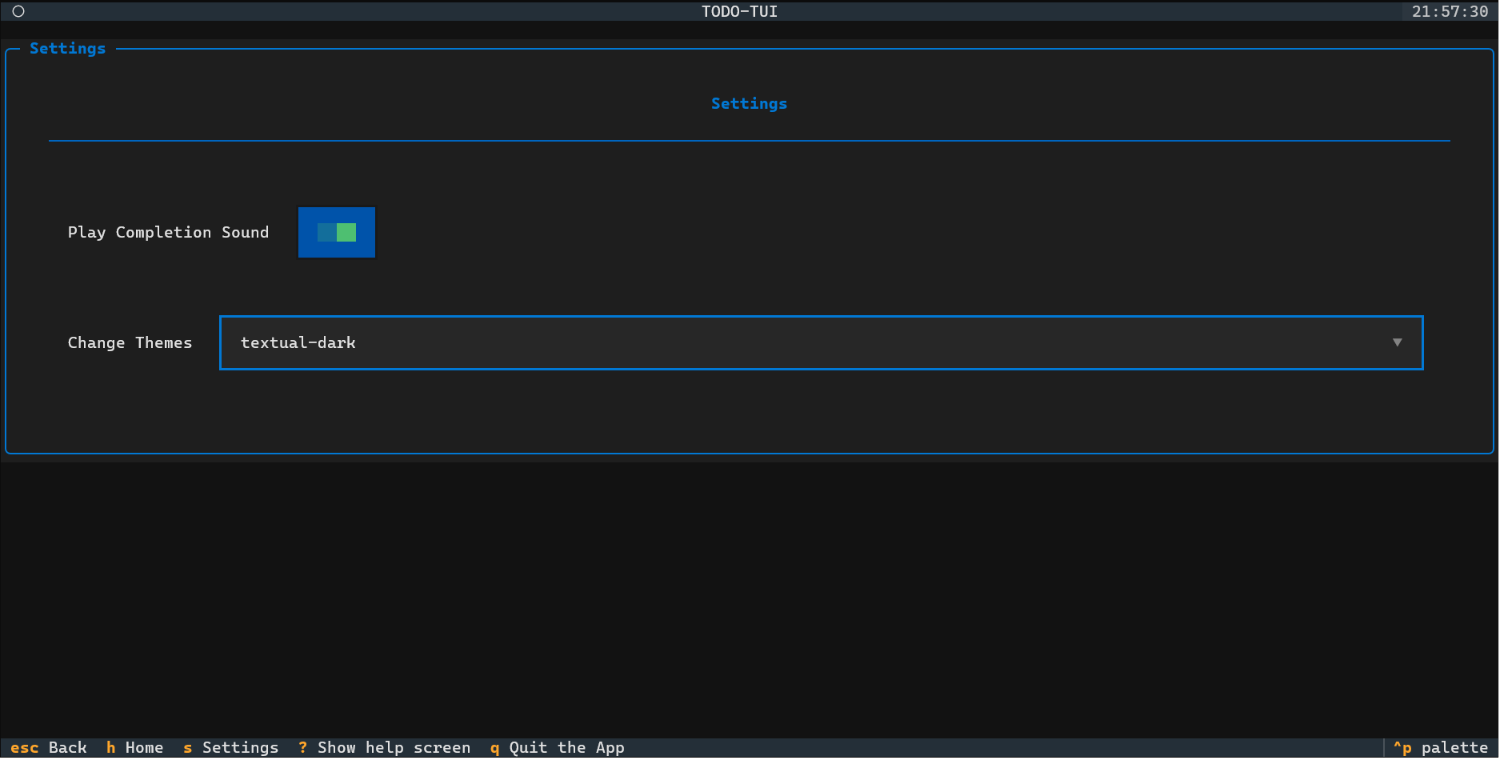
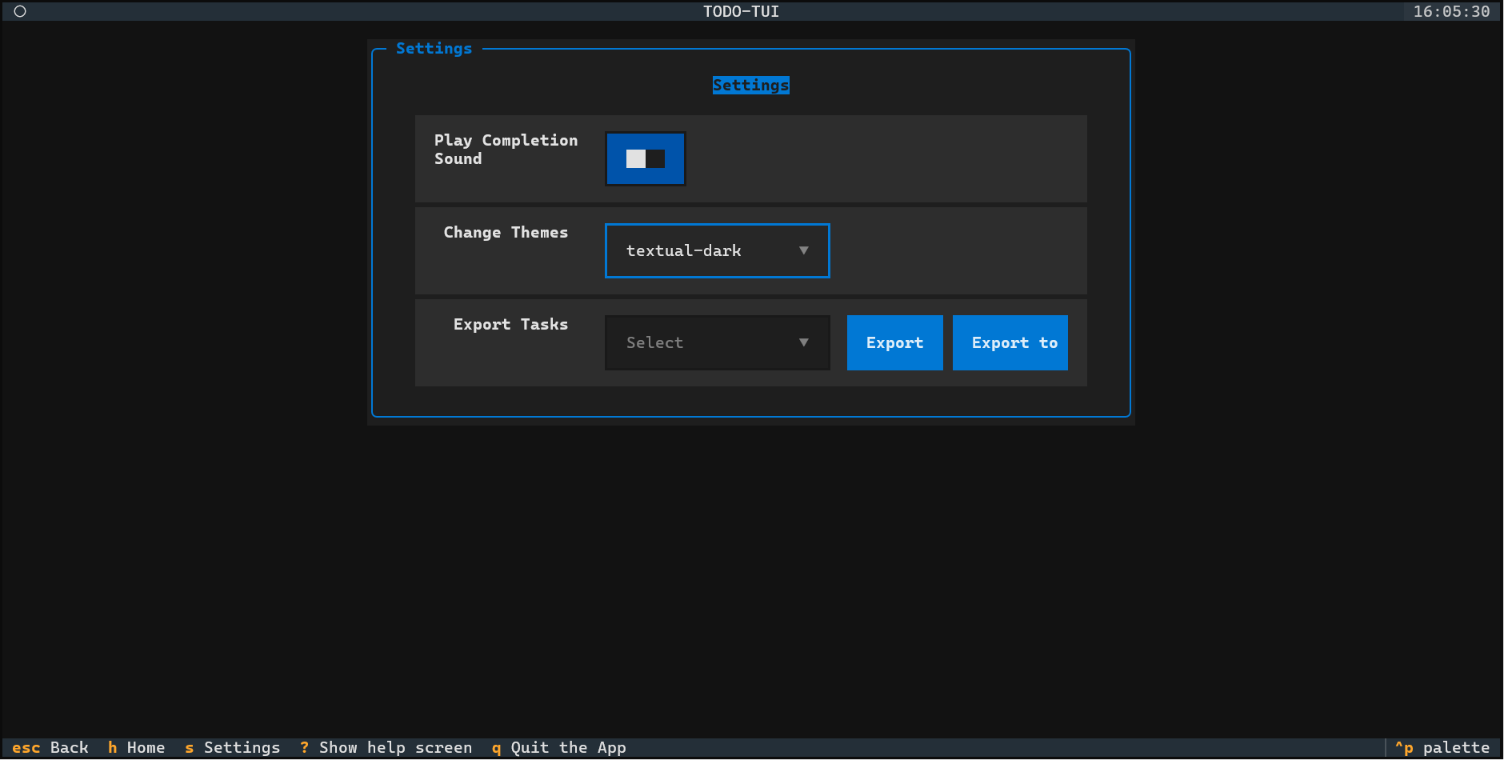
Added Exporting feature + fixed some UI issues in Settings Screen

diff --git a/src/todo_tui/main.py b/src/todo_tui/main.py
@@ -1,6 +1,7 @@
-import sqlite3, winsound
+import sqlite3, winsound,json,csv
 from importlib.resources import files
 from pathlib import Path
+from datetime import datetime
 from typing import cast
 from textual.app import App
 from textual.binding import Binding
@@ -14,9 +15,10 @@ from textual.css.query import NoMatches
 PACKAGE = files("todo_tui")
 PROJECT_ROOT = Path(__file__).resolve().parents[2]
 if (PROJECT_ROOT / ".git").exists():
-    DB_PATH = PROJECT_ROOT / "db" / "todo.db"
+    BASE_DIR = PROJECT_ROOT
 else:
-    DB_PATH = Path.home() / ".todo-tui" / "todo.db"
+    BASE_DIR = Path.home() / ".todo-tui"
+DB_PATH = BASE_DIR / "db" / "todo.db"
 
 #=======================================================Todo-App==============================================================#
 class TodoApp(App):
@@ -89,6 +91,58 @@ class TodoApp(App):
             ("theme", value),
         )
         self.conn.commit()
+
+    def export_tasks(self, format_type: str):
+        tasks = self.conn.execute(
+            "SELECT ID, TASK, DONE, CREATED_AT, COMPLETED_AT FROM TASKS ORDER BY CREATED_AT"
+        ).fetchall()
+
+        if not tasks:
+            return None
+        export_dir = BASE_DIR / "exports"
+        export_dir.mkdir(parents=True, exist_ok=True)
+        timestamp = datetime.now().strftime("%Y%m%d_%H%M%S")
+
+        if format_type == "csv":
+            file_path = export_dir / f"tasks_export_{timestamp}.csv"
+            with open(file_path, "w", newline="", encoding="utf-8") as f:
+                writer = csv.writer(f)
+                writer.writerow(["ID", "Task", "Done", "Created At", "Completed At"])
+                for task in tasks:
+                    writer.writerow([task[0], task[1], "Yes" if task[2] else "No", task[3], task[4] or ""])
+        else:  # json
+            file_path = export_dir / f"tasks_export_{timestamp}.json"
+            task_list = []
+            for task in tasks:
+                task_list.append({
+                    "id": task[0],
+                    "task": task[1],
+                    "done": bool(task[2]),
+                    "created_at": task[3],
+                    "completed_at": task[4]
+                })
+            with open(file_path, "w", encoding="utf-8") as f:
+                json.dump(task_list, f, indent=2, ensure_ascii=False)
+
+        return file_path
+
+    def export_tasks_to_path(self, format_type: str, file_path: Path) -> Path | None:
+        tasks = self.conn.execute(
+            "SELECT ID, TASK, DONE, CREATED_AT, COMPLETED_AT FROM TASKS ORDER BY CREATED_AT"
+        ).fetchall()
+        if not tasks:
+            return None
+        if format_type == "csv":
+            with open(file_path, "w", newline="", encoding="utf-8") as f:
+                writer = csv.writer(f)
+                writer.writerow(["ID", "Task", "Done", "Created At", "Completed At"])
+                for task in tasks:
+                    writer.writerow([task[0], task[1], "Yes" if task[2] else "No", task[3], task[4] or ""])
+        else:
+            task_list = [{"id": t[0], "task": t[1], "done": bool(t[2]), "created_at": t[3], "completed_at": t[4]} for t in tasks]
+            with open(file_path, "w", encoding="utf-8") as f:
+                json.dump(task_list, f, indent=2, ensure_ascii=False)
+        return file_path
 
     def action_home(self):
         self.push_screen(WelcomeScreen())
@@ -470,10 +524,13 @@ class SettingsScreen(Screen):
 
     def on_mount(self):
         self.query_one("#settings").border_title = "Settings"
+        self._initializing = True
         self.query_one("#custom-design", Switch).value = cast(TodoApp, self.app).sound_enabled
+        self._initializing = False
 
     def compose(self):
         themes = [(name,name) for name in self.app.available_themes]
+        file_type = [("CSV","csv"),("JSON","json")]
         current = cast(TodoApp,self.app).theme
         yield Header(show_clock=True)
         yield Vertical(
@@ -488,20 +545,98 @@ class SettingsScreen(Screen):
                 Select(options=themes,value=current,id="theme-select"),
                 classes="container"
             ),
+            Horizontal(
+                Label("Export Tasks",classes="label"),
+                Select(options=file_type, id="export-format"),
+                Button("Export", variant="primary", id="export-btn"),
+                Button("Export to", variant="primary", id="export-as-btn"),
+                classes="container",
+            ),
             id="settings"
         )
         yield Footer()
 
     def on_switch_changed(self, event: Switch.Changed):
+        if getattr(self, "_initializing", False):
+            return
         app = cast(TodoApp, self.app)
         app.sound_enabled = event.value
         app.save_sound_setting(event.value)
 
     def on_select_changed(self, event: Select.Changed):
-        if isinstance(event.value, str):
+        if event.select.id == "theme-select" and isinstance(event.value, str):
             app = cast(TodoApp, self.app)
+            if event.value == app.theme:
+                return
             app.theme = str(event.value)
             app.save_theme_setting(str(event.value))
+
+    def on_button_pressed(self, event):
+        if event.button.id == "export-btn":
+            format_select = self.query_one("#export-format", Select)
+            format_type = format_select.value
+            if isinstance(format_type, str):
+                app = cast(TodoApp, self.app)
+                file_path = app.export_tasks(format_type)
+                if file_path:
+                    self.notify(f"Exported to {file_path}", title="Export Complete")
+                else:
+                    self.notify("No tasks to export", title="Export", severity="warning")
+            else:
+                self.notify("Select a file format first", title="Export", severity="warning")
+        elif event.button.id == "export-as-btn":
+            format_select = self.query_one("#export-format", Select)
+            format_type = format_select.value
+            if isinstance(format_type, str):
+                self.run_worker(lambda: self._show_file_dialog(format_type), exclusive=True, group="export_dialog", thread=True)
+            else:
+                self.notify("Select a file format first", title="Export", severity="warning")
+
+    def _show_file_dialog(self, format_type: str):
+        import tkinter as tk
+        from tkinter import filedialog
+
+        root = tk.Tk()
+        root.withdraw()
+        root.attributes('-topmost', True)
+
+        initial_dir = str(BASE_DIR / "exports")
+        Path(initial_dir).mkdir(parents=True, exist_ok=True)
+
+        timestamp = datetime.now().strftime("%Y%m%d_%H%M%S")
+        initial_filename = f"tasks_export_{timestamp}"
+
+        if format_type == "csv":
+            filetypes = [("CSV files", "*.csv"), ("All files", "*.*")]
+            default_ext = ".csv"
+        else:
+            filetypes = [("JSON files", "*.json"), ("All files", "*.*")]
+            default_ext = ".json"
+
+        file_path = filedialog.asksaveasfilename(
+            title="TODO-TUI",
+            initialdir=initial_dir,
+            initialfile=initial_filename,
+            defaultextension=default_ext,
+            filetypes=filetypes,
+        )
+
+        root.destroy()
+
+        if file_path:
+            self.app.call_from_thread(self._on_file_selected, format_type, file_path)
+
+    def _on_file_selected(self, format_type: str, file_path: str):
+        app = cast(TodoApp, self.app)
+        try:
+            result = app.export_tasks_to_path(format_type, Path(file_path))
+        except Exception as e:
+            self.notify(f"Export failed: {e}", title="Error", severity="error")
+            return
+        if result:
+            self.notify(f"Exported to {result}", title="Export Complete")
+        else:
+            self.notify("No tasks to export", title="Export", severity="warning")
 
 def main():
     app = TodoApp()

diff --git a/README.md b/README.md
@@ -16,6 +16,7 @@ A feature-rich, keyboard-driven **Terminal User Interface (TUI)** todo applicati
 - **Quit Confirmation** – Prompts for confirmation before exiting.
 - **Help Screen** – View all keybindings and usage instructions.
 - **Settings Screen** – Toggle preferences (e.g. completion sound on/off) and switch between themes. Settings persist across app restarts.
+- **Export Tasks** – Export your tasks to CSV or JSON from Settings. Use **Export** to save to the default exports folder, or **Export to** to choose a custom location via file dialog.
 - **Home Navigation** – Return to the Welcome screen from anywhere.
 - **Keyboard-Driven UI** – Full keyboard navigation without needing a mouse.
 - **Theme Changer** – Switch between built-in themes (e.g. `textual-dark`, `textual-light`) from Settings. Theme preference persists across restarts.
@@ -37,7 +38,7 @@ The core task management view with two panels: **Available** tasks on the left a
 
 ### Settings Screen
 
-Configure app preferences: toggle the completion sound on/off and switch between themes. Settings persist across restarts.
+Configure app preferences: toggle the completion sound on/off, switch between themes, and export tasks to CSV or JSON. The **Export** button saves to the default exports folder, while **Export to** opens a file dialog to choose a custom save location.
 
 ![Settings Screen](src/todo_tui/assets/Settings%20Screen%20(Screenshot).png)
 
@@ -103,7 +104,7 @@ Welcome Screen
 |------------------|-------------|
 | **Welcome**      | Landing page with the app title and **Get Started** button |
 | **Todo**         | Main task management interface with Available / Completed panels, input bar, and fuzzy search |
-| **Settings**     | Configure app preferences (toggle completion sound, switch theme) |
+| **Settings**     | Configure app preferences (toggle completion sound, switch theme, export tasks to CSV/JSON with custom save location) |
 | **Help**         | Displays all keybindings and usage instructions (markdown) |
 | **Quit**         | Modal dialog asking "Are you sure you want to quit?" |
 | **Delete**       | Modal dialog asking "Are you sure you want to delete this task?" |
@@ -233,7 +234,7 @@ uv run todo-tui
 4. Navigate checkboxes and toggle task completion
 5. Remove individual tasks with **Delete** (confirmation required) or Delete All with **Ctrl+d**
 6. Filter tasks with **Ctrl+f** using fuzzy search; press **Esc** to clear
-7. Open Settings to adjust preferences
+7. Open Settings to adjust preferences and export tasks
 8. View the help screen anytime for keybindings
 9. Quit and confirm to exit the application
 
